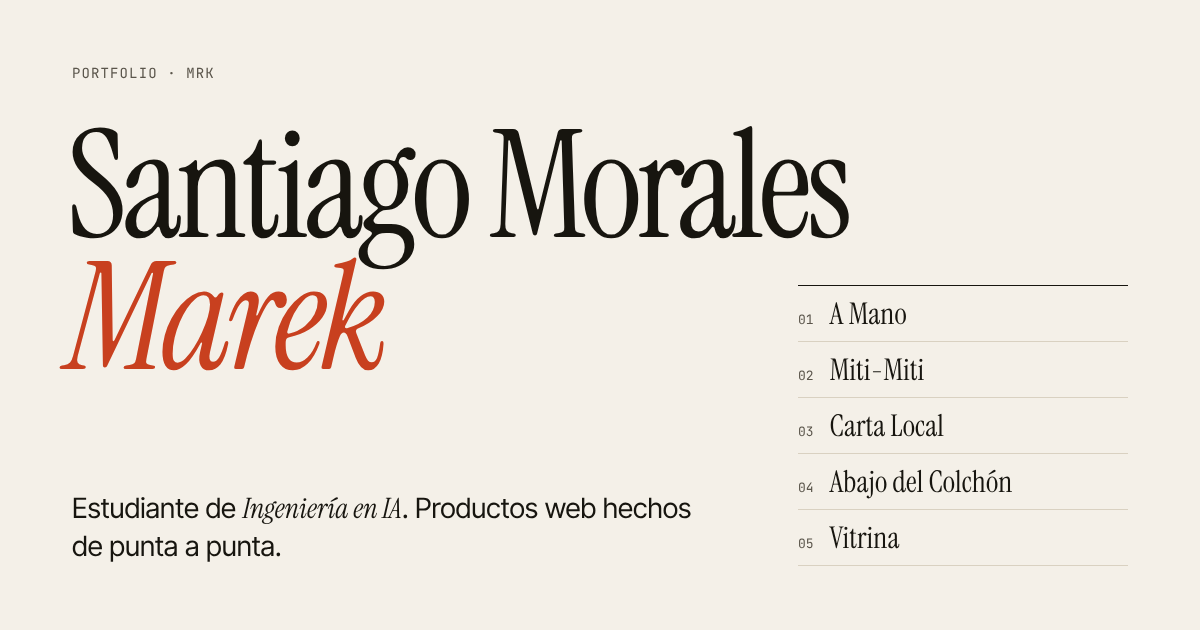
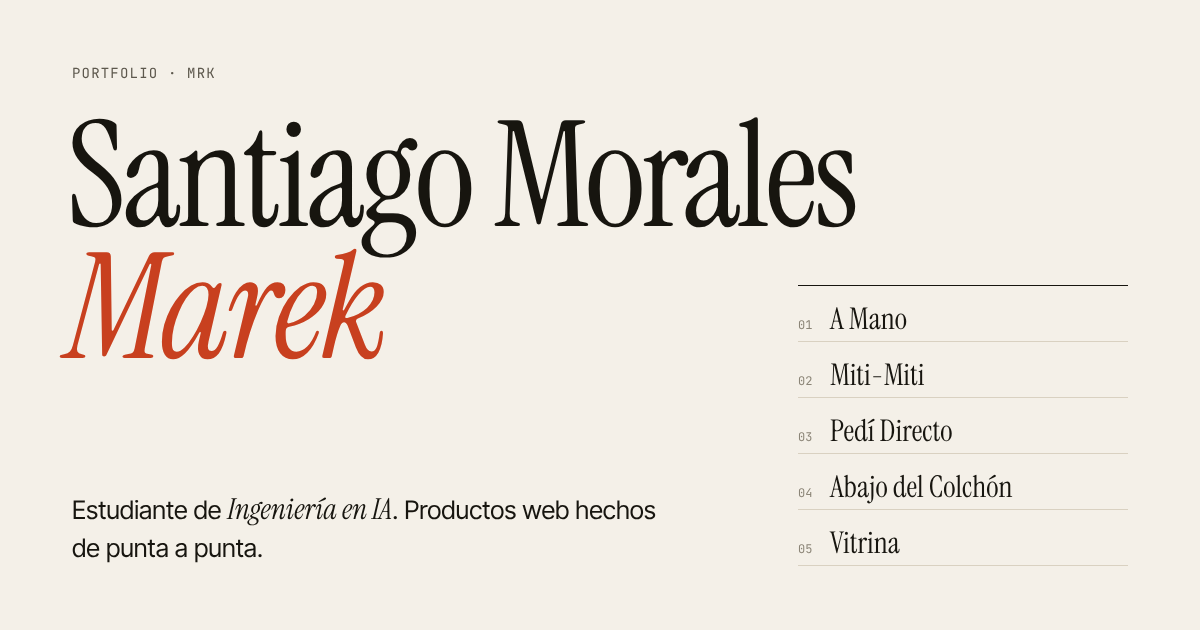
Carta Local pasa a llamarse Pedí Directo en el portfolio
Título, índice, textos, ancla (#pedi-directo) e imagen al compartir.
La demo y su dirección no cambian.

Claude-Session: https://claude.ai/code/session_01EVxcxHaVa2LM7PBRgRGX4o

diff --git a/index.html b/index.html
@@ -4,7 +4,7 @@
   <meta charset="utf-8" />
   <meta name="viewport" content="width=device-width, initial-scale=1" />
   <title>Santiago Morales Marek — Portfolio</title>
-  <meta name="description" content="Portfolio de Santiago Morales Marek, estudiante de Ingeniería en IA: A Mano, Miti-Miti, Carta Local, Abajo del Colchón y Vitrina, productos web hechos de punta a punta." />
+  <meta name="description" content="Portfolio de Santiago Morales Marek, estudiante de Ingeniería en IA: A Mano, Miti-Miti, Pedí Directo, Abajo del Colchón y Vitrina, productos web hechos de punta a punta." />
   <meta name="theme-color" content="#f4f0e8" media="(prefers-color-scheme: light)" />
   <meta name="theme-color" content="#151410" media="(prefers-color-scheme: dark)" />
   <meta property="og:type" content="website" />
@@ -13,7 +13,7 @@
   <meta property="og:description" content="Estudiante de Ingeniería en IA. Productos web hechos de punta a punta: diseño, código y puesta en marcha." />
   <meta property="og:url" content="https://santiagomoralesmarek.com.ar/" />
   <meta property="og:image" content="https://santiagomoralesmarek.com.ar/og.png" />
-  <meta property="og:image:alt" content="Santiago Morales Marek: portfolio con A Mano, Miti-Miti, Carta Local, Abajo del Colchón y Vitrina." />
+  <meta property="og:image:alt" content="Santiago Morales Marek: portfolio con A Mano, Miti-Miti, Pedí Directo, Abajo del Colchón y Vitrina." />
   <meta property="og:image:width" content="1200" />
   <meta property="og:image:height" content="630" />
   <meta name="twitter:card" content="summary_large_image" />
@@ -69,7 +69,7 @@
         <ol class="indice" aria-label="Proyectos">
           <li><a href="#a-mano"><span class="indice-num">01</span><span class="indice-nombre">A Mano</span><span class="indice-tipo">Recetas con IA</span></a></li>
           <li><a href="#miti-miti"><span class="indice-num">02</span><span class="indice-nombre">Miti-Miti</span><span class="indice-tipo">Gastos compartidos</span></a></li>
-          <li><a href="#carta-local"><span class="indice-num">03</span><span class="indice-nombre">Carta Local</span><span class="indice-tipo">Menú digital y pedidos</span></a></li>
+          <li><a href="#pedi-directo"><span class="indice-num">03</span><span class="indice-nombre">Pedí Directo</span><span class="indice-tipo">Menú digital y pedidos</span></a></li>
           <li><a href="#abajo-del-colchon"><span class="indice-num">04</span><span class="indice-nombre">Abajo del Colchón</span><span class="indice-tipo">Finanzas personales</span></a></li>
           <li><a href="#vitrina"><span class="indice-num">05</span><span class="indice-nombre">Vitrina</span><span class="indice-tipo">8 ejemplos de diseño</span></a></li>
         </ol>
@@ -167,11 +167,11 @@
         </div>
       </article>
 
-      <!-- 03 · CARTA LOCAL -->
-      <article class="caso" id="carta-local" style="--acento: var(--carta)">
+      <!-- 03 · PEDÍ DIRECTO -->
+      <article class="caso" id="pedi-directo" style="--acento: var(--carta)">
         <header class="caso-head">
           <p class="caso-meta"><span class="caso-num">03</span><span>Producto para comercios</span><span>2026</span></p>
-          <h2 class="caso-titulo">Carta Local</h2>
+          <h2 class="caso-titulo">Pedí Directo</h2>
           <p class="caso-bajada">Web, carta con QR y pedidos por WhatsApp para rotiserías, bares y cafeterías del barrio. <em>Sin comisiones por venta.</em></p>
         </header>
 
@@ -279,7 +279,7 @@
               <a class="boton" href="https://vitrina-iota-ten.vercel.app/" target="_blank" rel="noopener noreferrer">Ver la galería <span aria-hidden="true">↗</span></a>
               <a class="enlace" href="https://github.com/santiagomoralesmarek01-creator/vitrina" target="_blank" rel="noopener noreferrer">Código en GitHub</a>
             </p>
-            <p class="cruce">Las cartas son propuestas de diseño; <a href="#carta-local">Carta Local</a> es el sistema que las pone a funcionar en un local, con pedidos, QR y panel para el dueño.</p>
+            <p class="cruce">Las cartas son propuestas de diseño; <a href="#pedi-directo">Pedí Directo</a> es el sistema que las pone a funcionar en un local, con pedidos, QR y panel para el dueño.</p>
           </div>
         </div>
 

diff --git a/README.md b/README.md
@@ -1,7 +1,7 @@
 # Portfolio — Santiago Morales Marek
 
 Sitio estático (HTML + CSS + JS, sin build ni backend) con mis proyectos web,
-presentados como casos de estudio: A Mano, Miti-Miti, Carta Local y Abajo del Colchón,
+presentados como casos de estudio: A Mano, Miti-Miti, Pedí Directo y Abajo del Colchón,
 más la colección **Vitrina** con 8 ejemplos de diseño (cartas, landings y apps).
 
 ## Estructura
